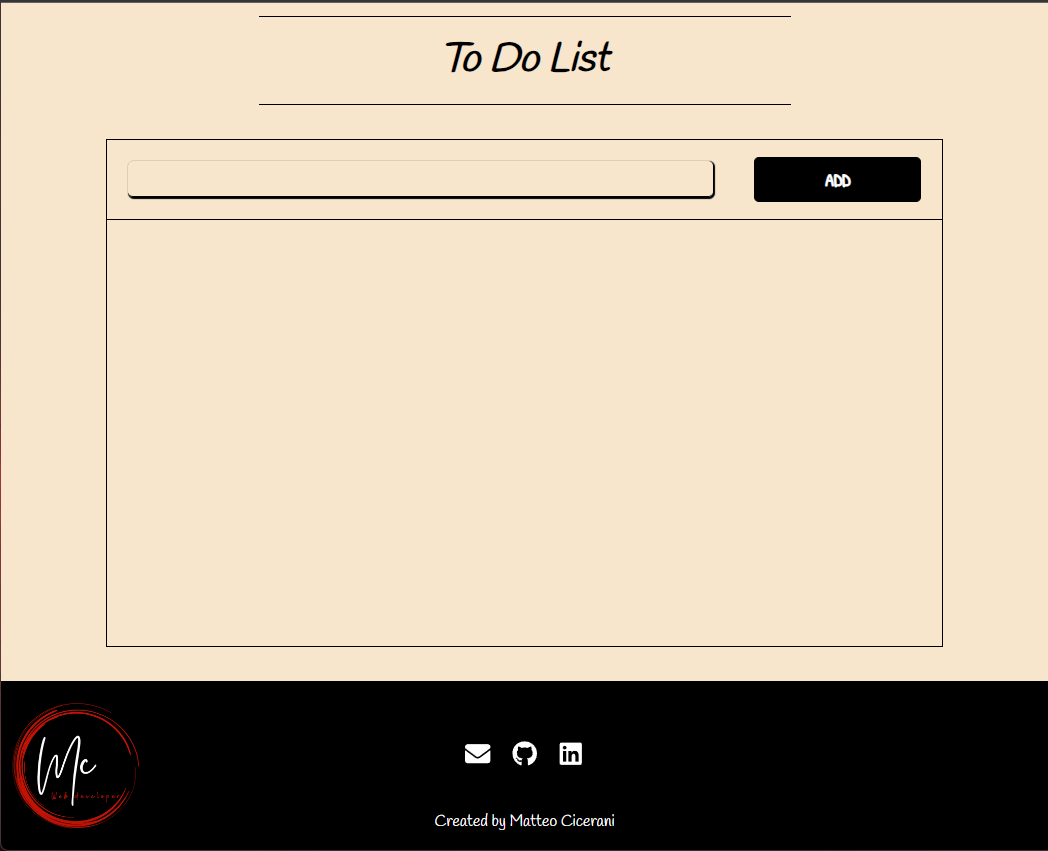
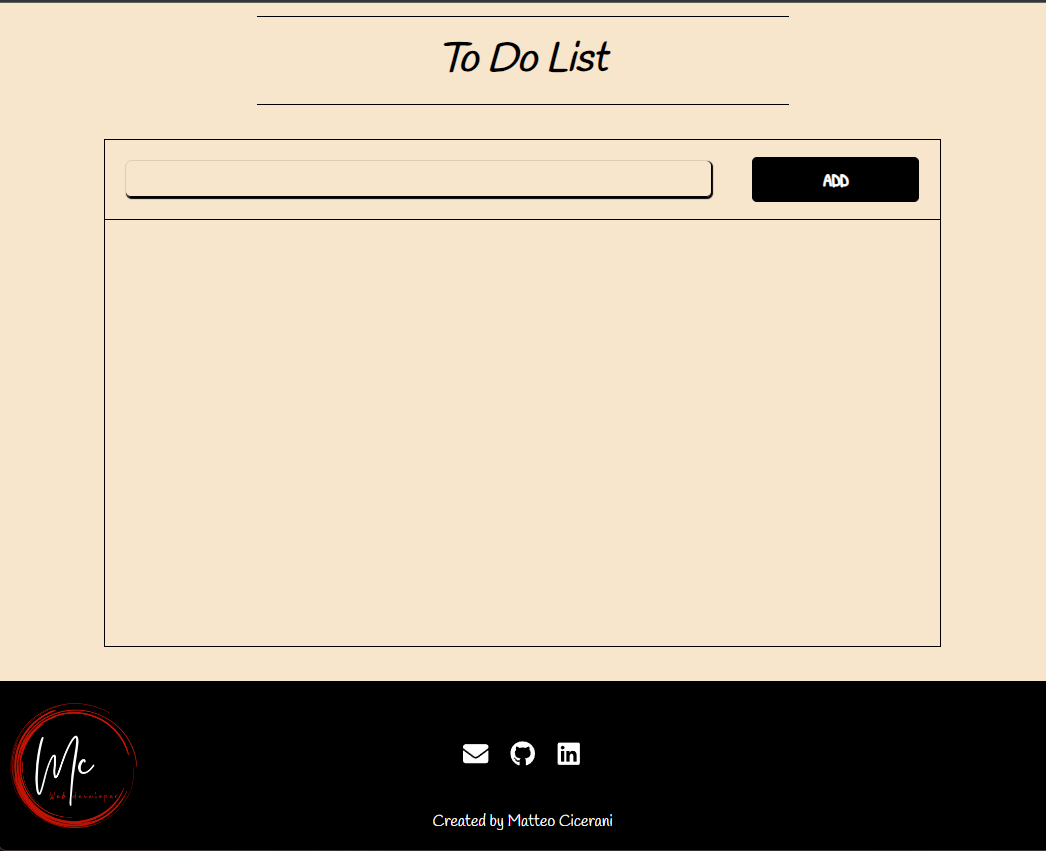
added url to todolist

diff --git a/index.html b/index.html
@@ -112,7 +112,7 @@
                         </div>
 
                         <div class="portfolio__item">
-                            <h2>To Do List</h2>
+                            <h2><a href="https://mctodolist.netlify.app/">To Do List</a></h2>
                             <img src="images/to-do-list.png" alt="Screenshot Sito To Do List">
                             <p>
                                 To Do List costruita con Vite+React e Sass.
